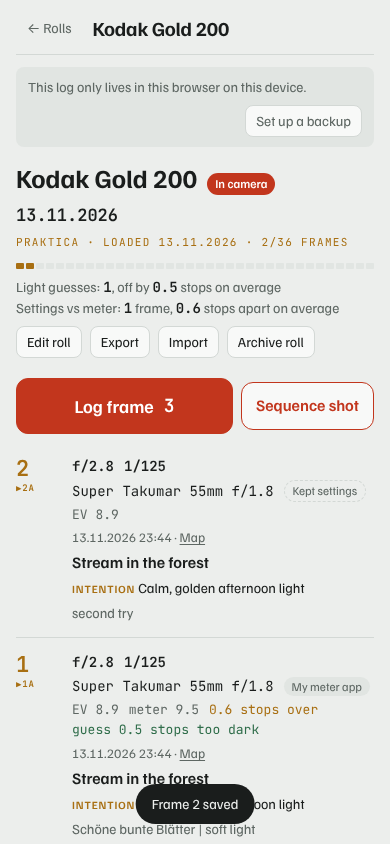
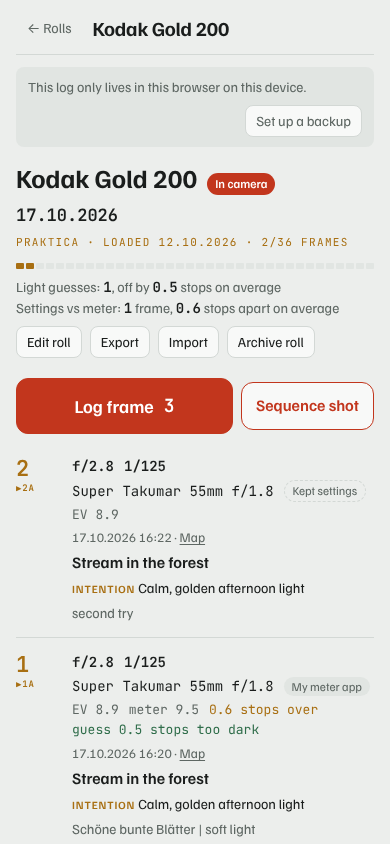
Screenshots: sample frames dated on an October afternoon
Claude-Session: https://claude.ai/code/session_01KcJUmRpgootFaasABVMDKB

diff --git a/tests/e2e.js b/tests/e2e.js
@@ -40,7 +40,7 @@ async function ghRoute(route) {
   ok((await p.locator('#main').innerText()).includes('No rolls yet'), 'empty state shown');
   await shot('01-empty');
   // new roll
-  await p.click('#newRollBtn'); await p.fill('#r-stock', 'Kodak Gold 200'); await p.click('#rollForm button[type=submit] >> nth=1'); await p.waitForTimeout(300);
+  await p.click('#newRollBtn'); await p.fill('#r-stock', 'Kodak Gold 200'); await p.fill('#r-loaded', '2026-10-12'); await p.click('#rollForm button[type=submit] >> nth=1'); await p.waitForTimeout(300);
   ok(await p.locator('#logBtn').isVisible(), 'roll created and opened');
   ok(!(await p.locator('#seqBtn').count()), 'no sequence button before first frame');
   // frame 1 with GPS + scan
@@ -55,15 +55,15 @@ async function ghRoute(route) {
   await p.fill('#f-meterval', '9.5'); await p.fill('#f-subject', 'Stream in the forest'); await p.fill('#f-notes', 'Schöne bunte Blätter | soft light');
   const png = await (async () => { const pg = await ctx.newPage(); await pg.setContent('<body style="margin:0;background:linear-gradient(45deg,#a33,#33a)">'); const buf = await pg.screenshot({ clip: { x: 0, y: 0, width: 300, height: 200 } }); await pg.close(); return buf; })();
   await p.setInputFiles('#f-photo-file', { name: 'scan.png', mimeType: 'image/png', buffer: png }); await p.waitForTimeout(500);
-  await p.fill('#f-guess', '9'); await p.fill('#f-intent', 'Calm, golden afternoon light');
+  await p.fill('#f-date', '2026-10-17'); await p.fill('#f-time', '16:20'); await p.fill('#f-guess', '9'); await p.fill('#f-intent', 'Calm, golden afternoon light');
   await p.setViewportSize({ width: 390, height: 1480 }); await p.evaluate(() => { document.activeElement.blur(); document.querySelector('.sheet').scrollTop = 0; }); await p.waitForTimeout(2800); await shot('02a-form'); await p.setViewportSize({ width: 390, height: 844 });
   ok((await p.locator('#f-photo-status').innerText()).startsWith('Uploaded'), 'scan attached');
   await p.click('#shotForm button[type=submit] >> nth=1'); await p.waitForTimeout(400);
   ok(await p.locator('#shotList img.thumb:not([hidden])').count() === 1, 'scan thumbnail shows in list');
   ok((await p.locator('#shotList').innerText()).includes('EV 8.9') && (await p.locator('#shotList').innerText()).includes('My meter app'), 'EV line and own method show');
   // sequence shot
-  await p.click('#seqBtn'); await p.fill('#f-notes', 'second try'); await p.click('#shotForm button[type=submit] >> nth=1'); await p.waitForTimeout(300);
-  await shot('02-roll');
+  await p.click('#seqBtn'); await p.fill('#f-date', '2026-10-17'); await p.fill('#f-time', '16:22'); await p.fill('#f-notes', 'second try'); await p.click('#shotForm button[type=submit] >> nth=1'); await p.waitForTimeout(300);
+  await p.waitForTimeout(2800); await shot('02-roll');
   const s1 = await snap(); ok(JSON.parse(s1)[0][2].length === 2 && s1.includes('2|2.8|1/125|Kept settings|Stream in the forest|second try|50.73741, 7.09823|'), 'sequence shot copied frame');
   // the GPS switch is remembered, and switching it off sticks too
   await p.click('#logBtn'); await p.waitForTimeout(400);
